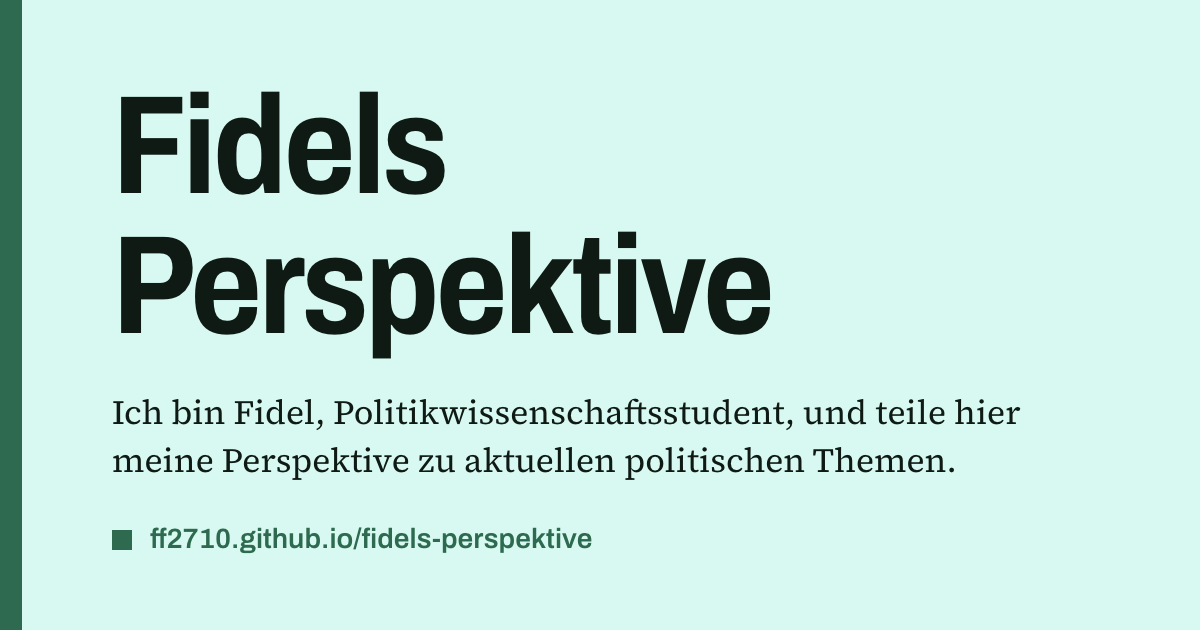
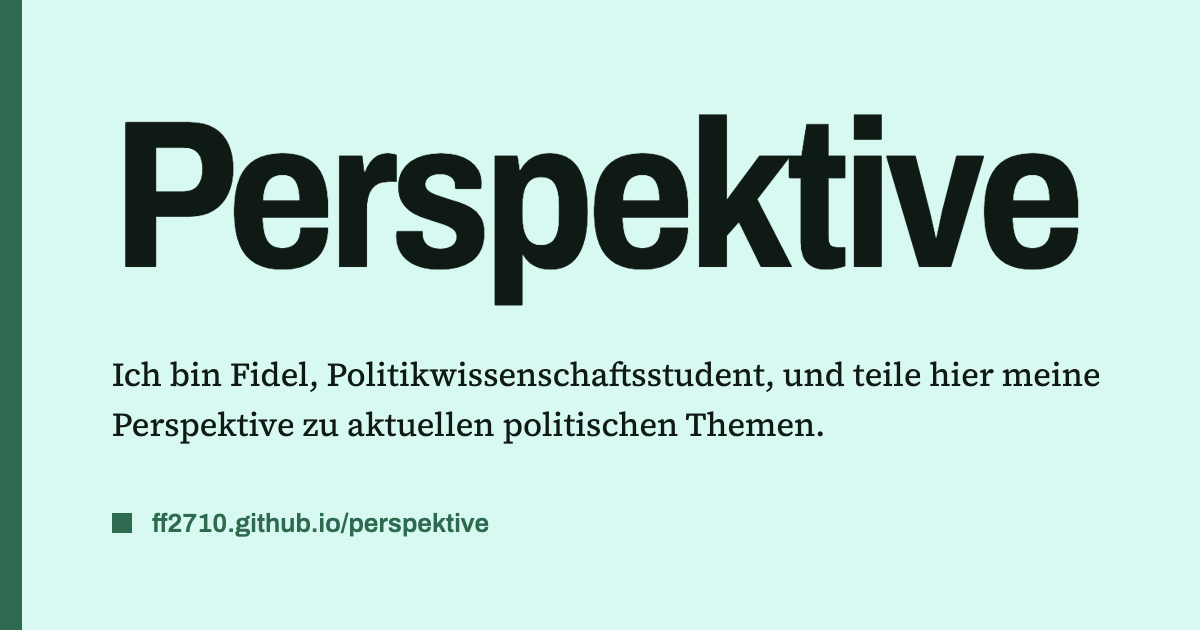
Blog heißt jetzt „Perspektive“ (Name, Vorschaubild, Anleitung zum Veröffentlichen)

Changed region(s): [[0.0925, 0.1206, 0.925, 0.754], [0.0925, 0.8143, 0.4933, 0.8746]]

diff --git a/src/scripts/preview.ts b/src/scripts/preview.ts
@@ -90,7 +90,7 @@ function describe(a: HTMLAnchorElement): Content | null {
 	const entry = linkIndex[key];
 	const note = entry ? ['Auf diesem Blog', entry.date].filter(Boolean).join(' · ') : shortPath(a.pathname);
 	return {
-		nodes: [el('p', 'preview__host', entry?.title ?? 'Fidels Perspektive'), el('p', 'preview__path', note)],
+		nodes: [el('p', 'preview__host', entry?.title ?? 'Perspektive'), el('p', 'preview__path', note)],
 		footnote: false,
 	};
 }

diff --git a/src/pages/rss.xml.ts b/src/pages/rss.xml.ts
@@ -6,7 +6,7 @@ import { url } from '../utils/url';
 export async function GET(context: APIContext) {
 	const posts = await getPosts();
 	return rss({
-		title: 'Fidels Perspektive',
+		title: 'Perspektive',
 		description: 'Ich bin Fidel, Politikwissenschaftsstudent, und teile hier meine Perspektive zu aktuellen politischen Themen.',
 		site: new URL(url('/'), context.site).href,
 		items: posts.map((post) => ({

diff --git a/README.md b/README.md
@@ -1,19 +1,76 @@
-# Fidels Perspektive
+# Perspektive
 
-Persönlicher Blog (Astro, statisch). Bauplan: `PLAN.md`, Konventionen: `CLAUDE.md`.
+Persönlicher Blog (Astro, statisch). Bauplan: `PLAN.md`, Konventionen: `CLAUDE.md`. Live: https://ff2710.github.io/perspektive/
 
-```sh
-npm install
-npm run dev      # lokal auf http://localhost:4321/perspektive/
-npm run build    # statischer Build nach dist/
-```
+## Beitrag schreiben und veröffentlichen (jedes Mal)
 
-## Editor
+Alle Befehle tippst du im Terminal, im Ordner des Blogs (`dev-workspace/blog`). In der Claude-Desktop-App öffnest du das Terminal als Tab neben dem Gespräch.
 
-Beiträge schreibt man im lokalen Editor, der nur im Dev-Server läuft:
+**1. Editor starten**
 
 ```sh
-npm run dev   # dann http://localhost:4321/perspektive/write öffnen
+npm run dev
 ```
 
-Der Editor zeigt links Markdown oder die Word-Ansicht (umschaltbar) und rechts die Vorschau. „Speichern“ schreibt `src/content/posts/<name>.md`. Committen und Pushen machst du selbst. Die Suche braucht den gebauten Blog (`npm run build`, dann `npm run preview`). `npm run check:roundtrip` prüft, dass die Word-Ansicht keinen Beitrag verändert.
+Das Terminal bleibt danach „belegt" und zeigt eine Adresse. Das ist richtig so: der Server läuft, solange du schreibst. Beenden mit `Strg + C`.
+
+**2. Editor im Browser öffnen**
+
+http://localhost:4321/perspektive/write (wenn der Port belegt ist, steht im Terminal eine andere Nummer, dann diese nehmen).
+
+**3. Beitrag anlegen oder öffnen**
+
+- Neuer Beitrag: oben „Neu".
+- Bestehender Beitrag: oben in der Auswahl „Beitrag" wählen.
+
+**4. Felder ausfüllen**
+
+Titel · Beschreibung (kursive Einleitung unter dem Titel) · Dateiname (wird die Adresse) · Datum · Themen (mit Komma getrennt) · Haken bei „Entwurf", solange der Text nicht fertig ist.
+
+**5. Text schreiben**
+
+Links in Markdown oder in der „Word-Ansicht" (umschaltbar, mit Knöpfen für Überschrift, Fett, Link, Fußnote). Rechts siehst du die Vorschau, so wie der Beitrag später aussieht.
+
+- Öffentliche Quelle: Link direkt auf die belegte Aussage.
+- Fachliteratur: nummerierte Fußnote mit zwei Sätzen Erklärung plus Link.
+- Meinung nur durch Formulierung („für mich", „meiner Ansicht nach").
+
+**6. Speichern**
+
+Oben „Speichern". Das schreibt die Datei `src/content/posts/<Dateiname>.md`. Speichere zwischendurch oft.
+
+**7. Prüfen, bevor es live geht**
+
+```sh
+npm run build
+npm run preview
+```
+
+Dann http://localhost:4321/perspektive/ (oder die Adresse im Terminal) öffnen und den Beitrag ansehen. `npm run build` bricht mit einer Fehlermeldung ab, wenn etwas kaputt ist. Der Entwurfs-Haken ist hier noch gesetzt, dann siehst du den Beitrag nicht, das ist Absicht (zum Ansehen im Editor genügt die Vorschau rechts).
+
+**8. Veröffentlichen**
+
+1. Im Editor den Haken bei „Entwurf" entfernen und speichern.
+2. Claude Code sagen: „Beitrag veröffentlichen". Claude committet und pusht **erst nach deinem OK**. Oder selbst im Terminal:
+
+```sh
+git add src/content
+git commit -m "Neuer Beitrag: <Titel>"
+git push
+```
+
+3. Etwa eine Minute warten. Fortschritt: https://github.com/ff2710/perspektive/actions (grüner Haken = fertig). Danach ist der Beitrag unter https://ff2710.github.io/perspektive/ sichtbar.
+
+**Beitrag später ändern:** gleiche Schritte ab 1, in Schritt 8 nur committen und pushen. **Beitrag zurückziehen:** im Editor den Haken „Entwurf" setzen, speichern, committen, pushen.
+
+**Wichtig:** Der Editor `/write` gibt es nur lokal. Auf der Live-Seite existiert er nicht. Wenn der Dev-Server nicht startet, einmal `npm install` ausführen.
+
+## Weitere Befehle
+
+```sh
+npm install              # einmalig, bzw. nach neuen Paketen
+npm run build            # statischer Build nach dist/ (inkl. Suchindex)
+npm run check:roundtrip  # prüft, dass die Word-Ansicht keinen Beitrag verändert
+```
+
+Impressum-Angaben stehen in `src/utils/legal.ts`. Fehlt dort etwas, bricht der Build auf GitHub ab.

diff --git a/PRODUCT.md b/PRODUCT.md
@@ -12,7 +12,7 @@ Politisch interessierte, gebildete Laien ohne Fachstudium. Sie kommen meist übe
 
 ## Product Purpose
 
-„Fidels Perspektive" (Arbeitstitel, Entscheidung 29.10.2026: „erstmal") ist der persönliche Blog von Fidel, Politikwissenschaftsstudent. Er teilt dort seine Perspektive zu aktuellen politischen Themen, an der Schnittstelle von wissenschaftlicher Erkenntnis und Meinung.
+„Perspektive" (Arbeitstitel, Entscheidung 29.10.2026: „erstmal") ist der persönliche Blog von Fidel, Politikwissenschaftsstudent. Er teilt dort seine Perspektive zu aktuellen politischen Themen, an der Schnittstelle von wissenschaftlicher Erkenntnis und Meinung.
 
 Der Blog soll drei Dinge leisten:
 - Fidels eigene Stimme öffentlich machen und seine Gedanken ordnen.
@@ -43,7 +43,7 @@ Wissenschaftliche Erkenntnisse und Meinung sind klar getrennt, jede Aussage ist 
 
 ## Brand Commitments
 
-- Name vorerst „Fidels Perspektive", Repo `perspektive`.
+- Name vorerst „Perspektive", Repo `perspektive`.
 - Seitenbeschreibung (aus dem Plan): „Ich bin Fidel, Politikwissenschaftsstudent und teile hier meine Perspektive zu aktuellen politischen Themen."
 - Ton: persönlich, aber sachlich. Meinung ohne Label, nur über Formulierungen wie „für mich" oder „meiner Ansicht nach"; Faktensätze enthalten kein „ich".
 - Kein lila Verlauf, keine Template- oder Standard-KI-Optik (bindende Vorgabe von Fidel).

diff --git a/DESIGN-BRIEF.md b/DESIGN-BRIEF.md
@@ -1,4 +1,4 @@
-# Design-Briefing: Fidels Perspektive
+# Design-Briefing: Perspektive
 
 _Antwortgrundlage für `/impeccable init` und für Taste. Stand 29.10.2026. Bei Widerspruch zu `PLAN.md` gilt dieses Briefing für alles Gestalterische._
 
@@ -18,7 +18,7 @@ Persönlichkeit in drei Wörtern: **klar, streitbar, belegt.**
 
 ## Was nicht übernommen wird
 
-- Keine Kopie von Logos, Schriftzügen oder Markenzeichen. Es entsteht ein eigener Schriftzug „Fidels Perspektive".
+- Keine Kopie von Logos, Schriftzügen oder Markenzeichen. Es entsteht ein eigener Schriftzug „Perspektive".
 - Kein Abo-Banner, keine Paywall-Anmutung, keine Beifall-/Folgen-Buttons.
 - Kein lila Verlauf, keine glatte Startup-Optik, keine Standardkarten mit Schlagschatten, keine Stockfoto-Ästhetik.
 

diff --git a/PLAN.md b/PLAN.md
@@ -91,7 +91,7 @@ Gelten für Inhalte, nicht für Code. Der Blog muss sie gut unterstützen.
 
 ## Offen / Annahmen
 
-- Blogname vorerst **„Fidels Perspektive"** (Entscheidung 29.10.2026, „erstmal"). Genauer Seitentitel/Tagline noch offen.
-- GitHub-Repo `perspektive` ist noch nicht auf GitHub angelegt (Anlegen/Push nur nach Fidels OK).
+- Blogname vorerst **„Perspektive"** (Entscheidung 29.10.2026, „erstmal"). Genauer Seitentitel/Tagline noch offen.
+- GitHub-Repo `perspektive` ist angelegt, Seite ist live unter https://ff2710.github.io/perspektive/ (Pages-Quelle: GitHub Actions). Push nur nach Fidels OK.
 - Impressum-Angaben (Phase 7).
 - Falls später gewünscht (nicht in v1): Kommentare über giscus, Newsletter, Editor auf der Live-Seite mit GitHub-Login.

diff --git a/DESIGN.md b/DESIGN.md
@@ -1,4 +1,4 @@
-# Design: Fidels Perspektive
+# Design: Perspektive
 
 Verbindlich für alles Gestalterische. Quellen: `DESIGN-BRIEF.md` (Fidels Briefing), `PRODUCT.md`, Fidels Wahl vom 29.10.2026 (Mischung aus A und C: **G3, K4, H3, S2**, Palette „Keimling und Himmel"). Bei Widerspruch zu `PLAN.md` gilt diese Datei. Animationen kommen erst in Phase 5.
 
